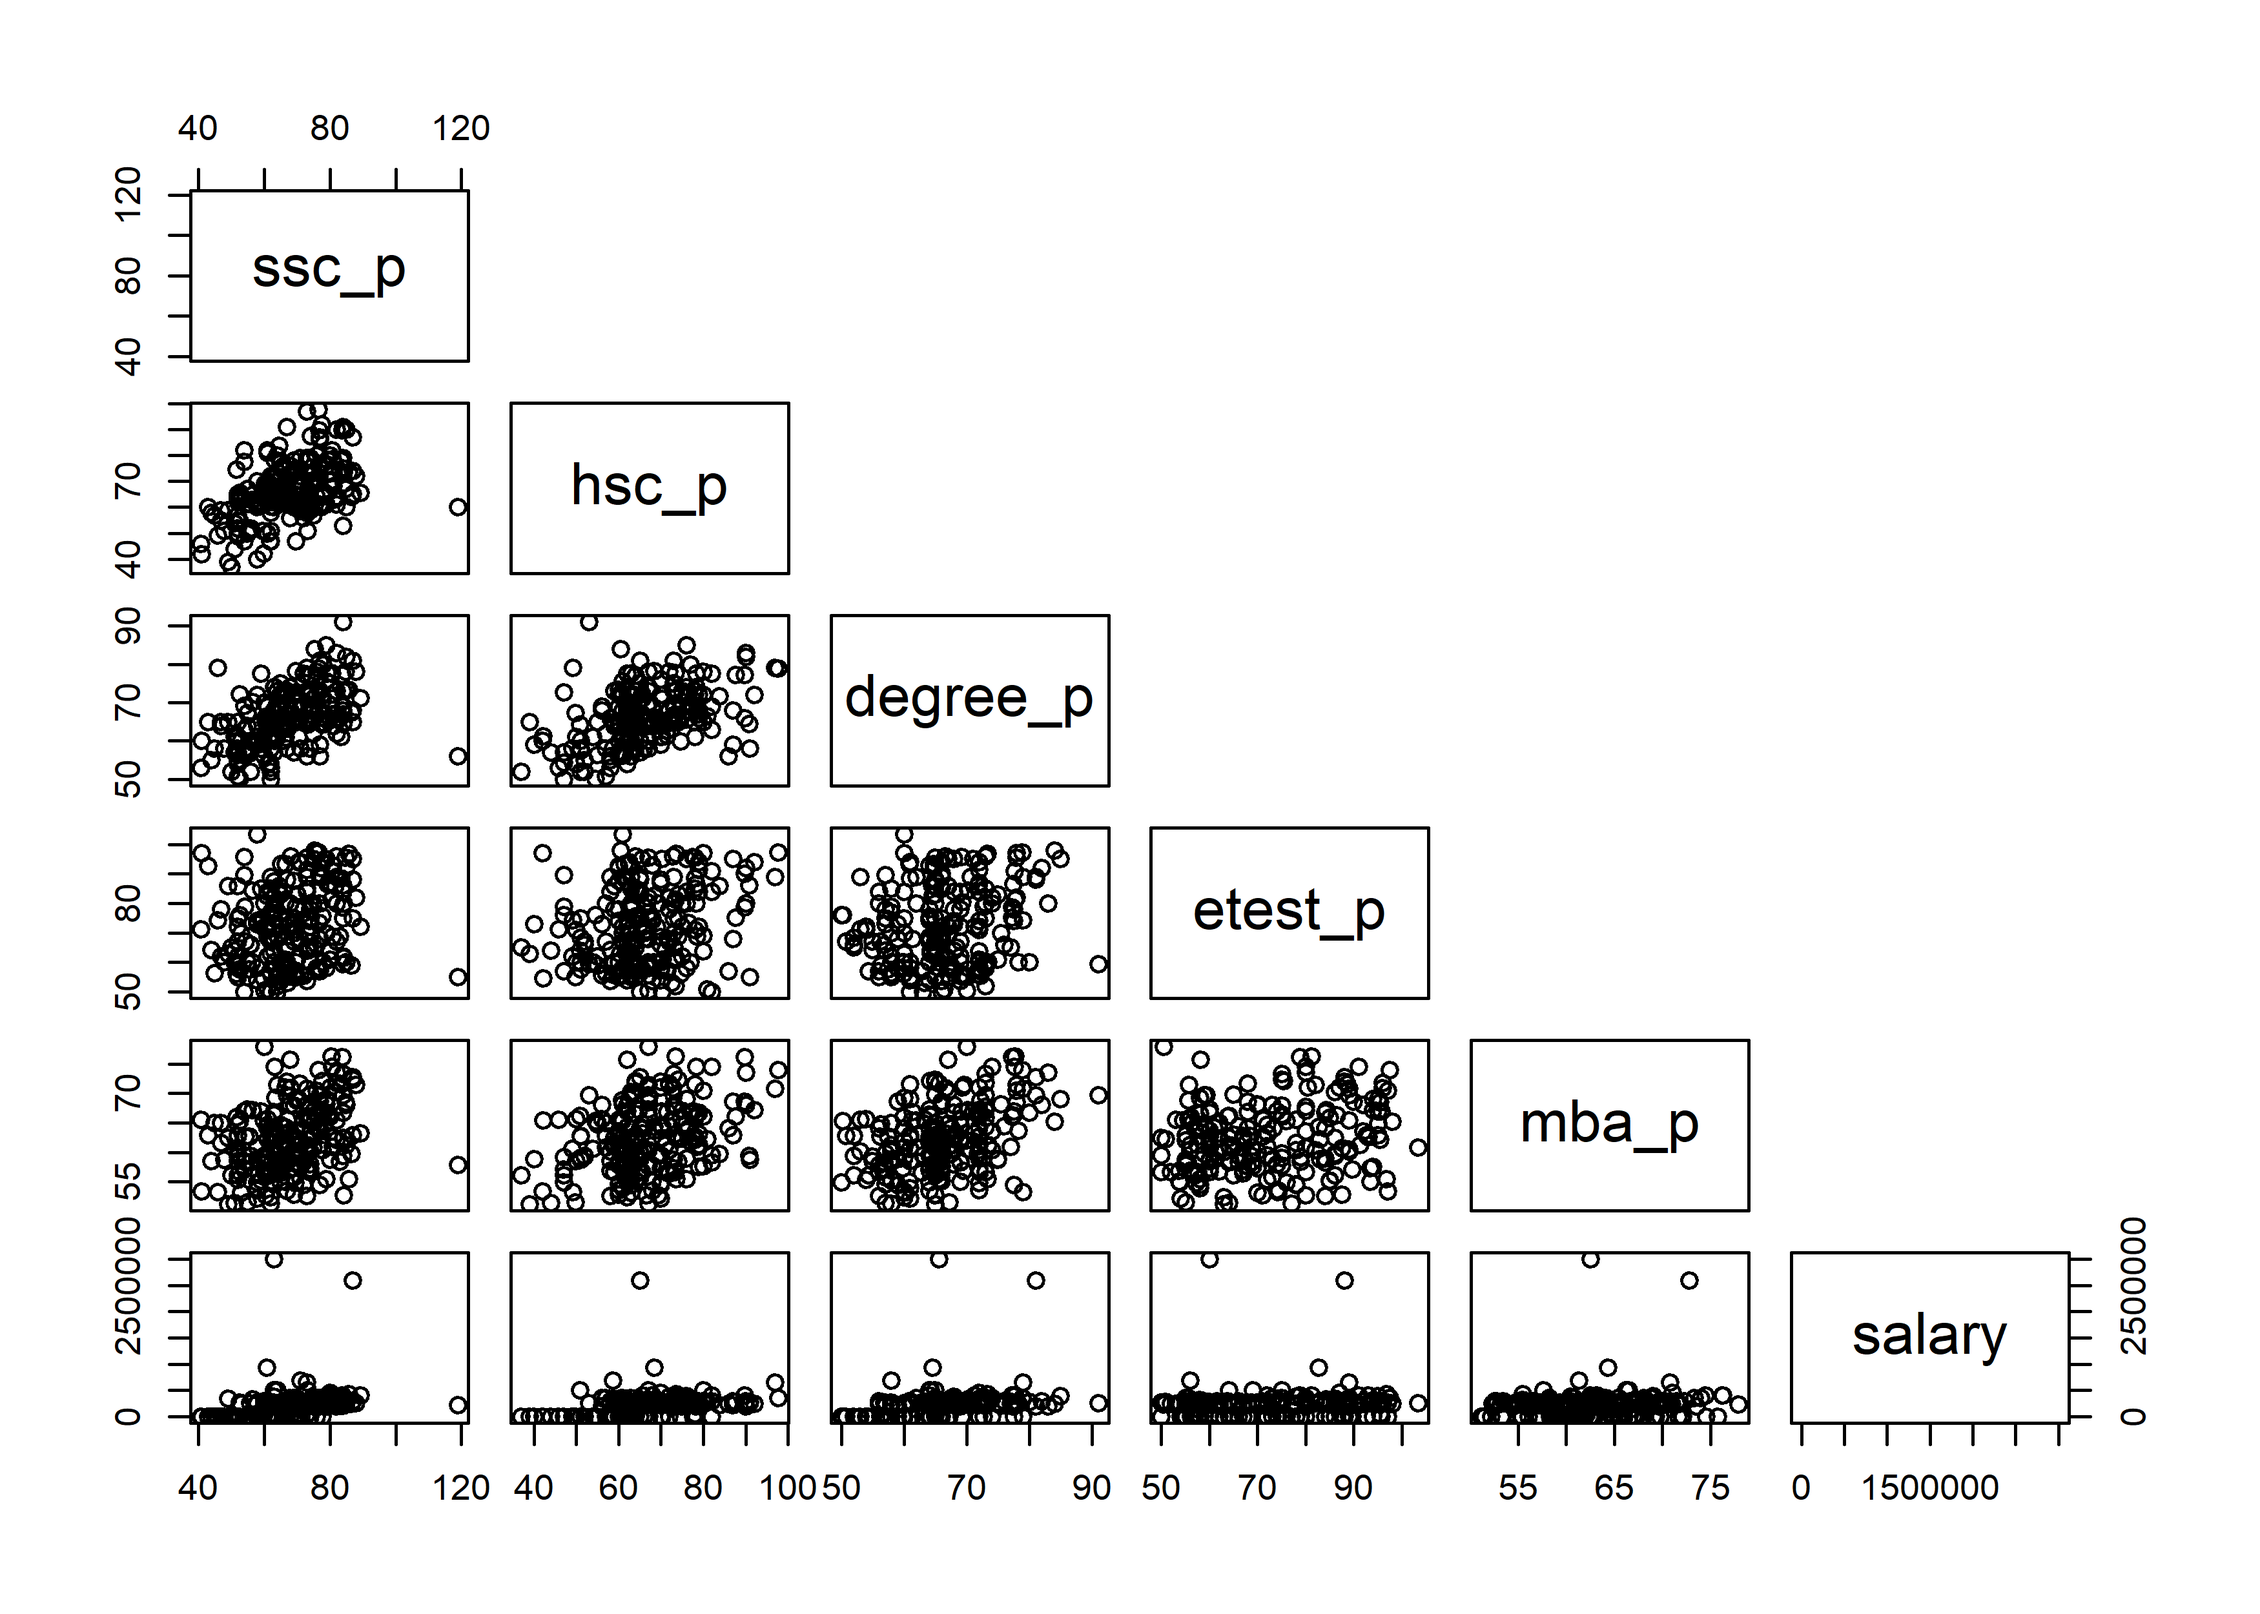
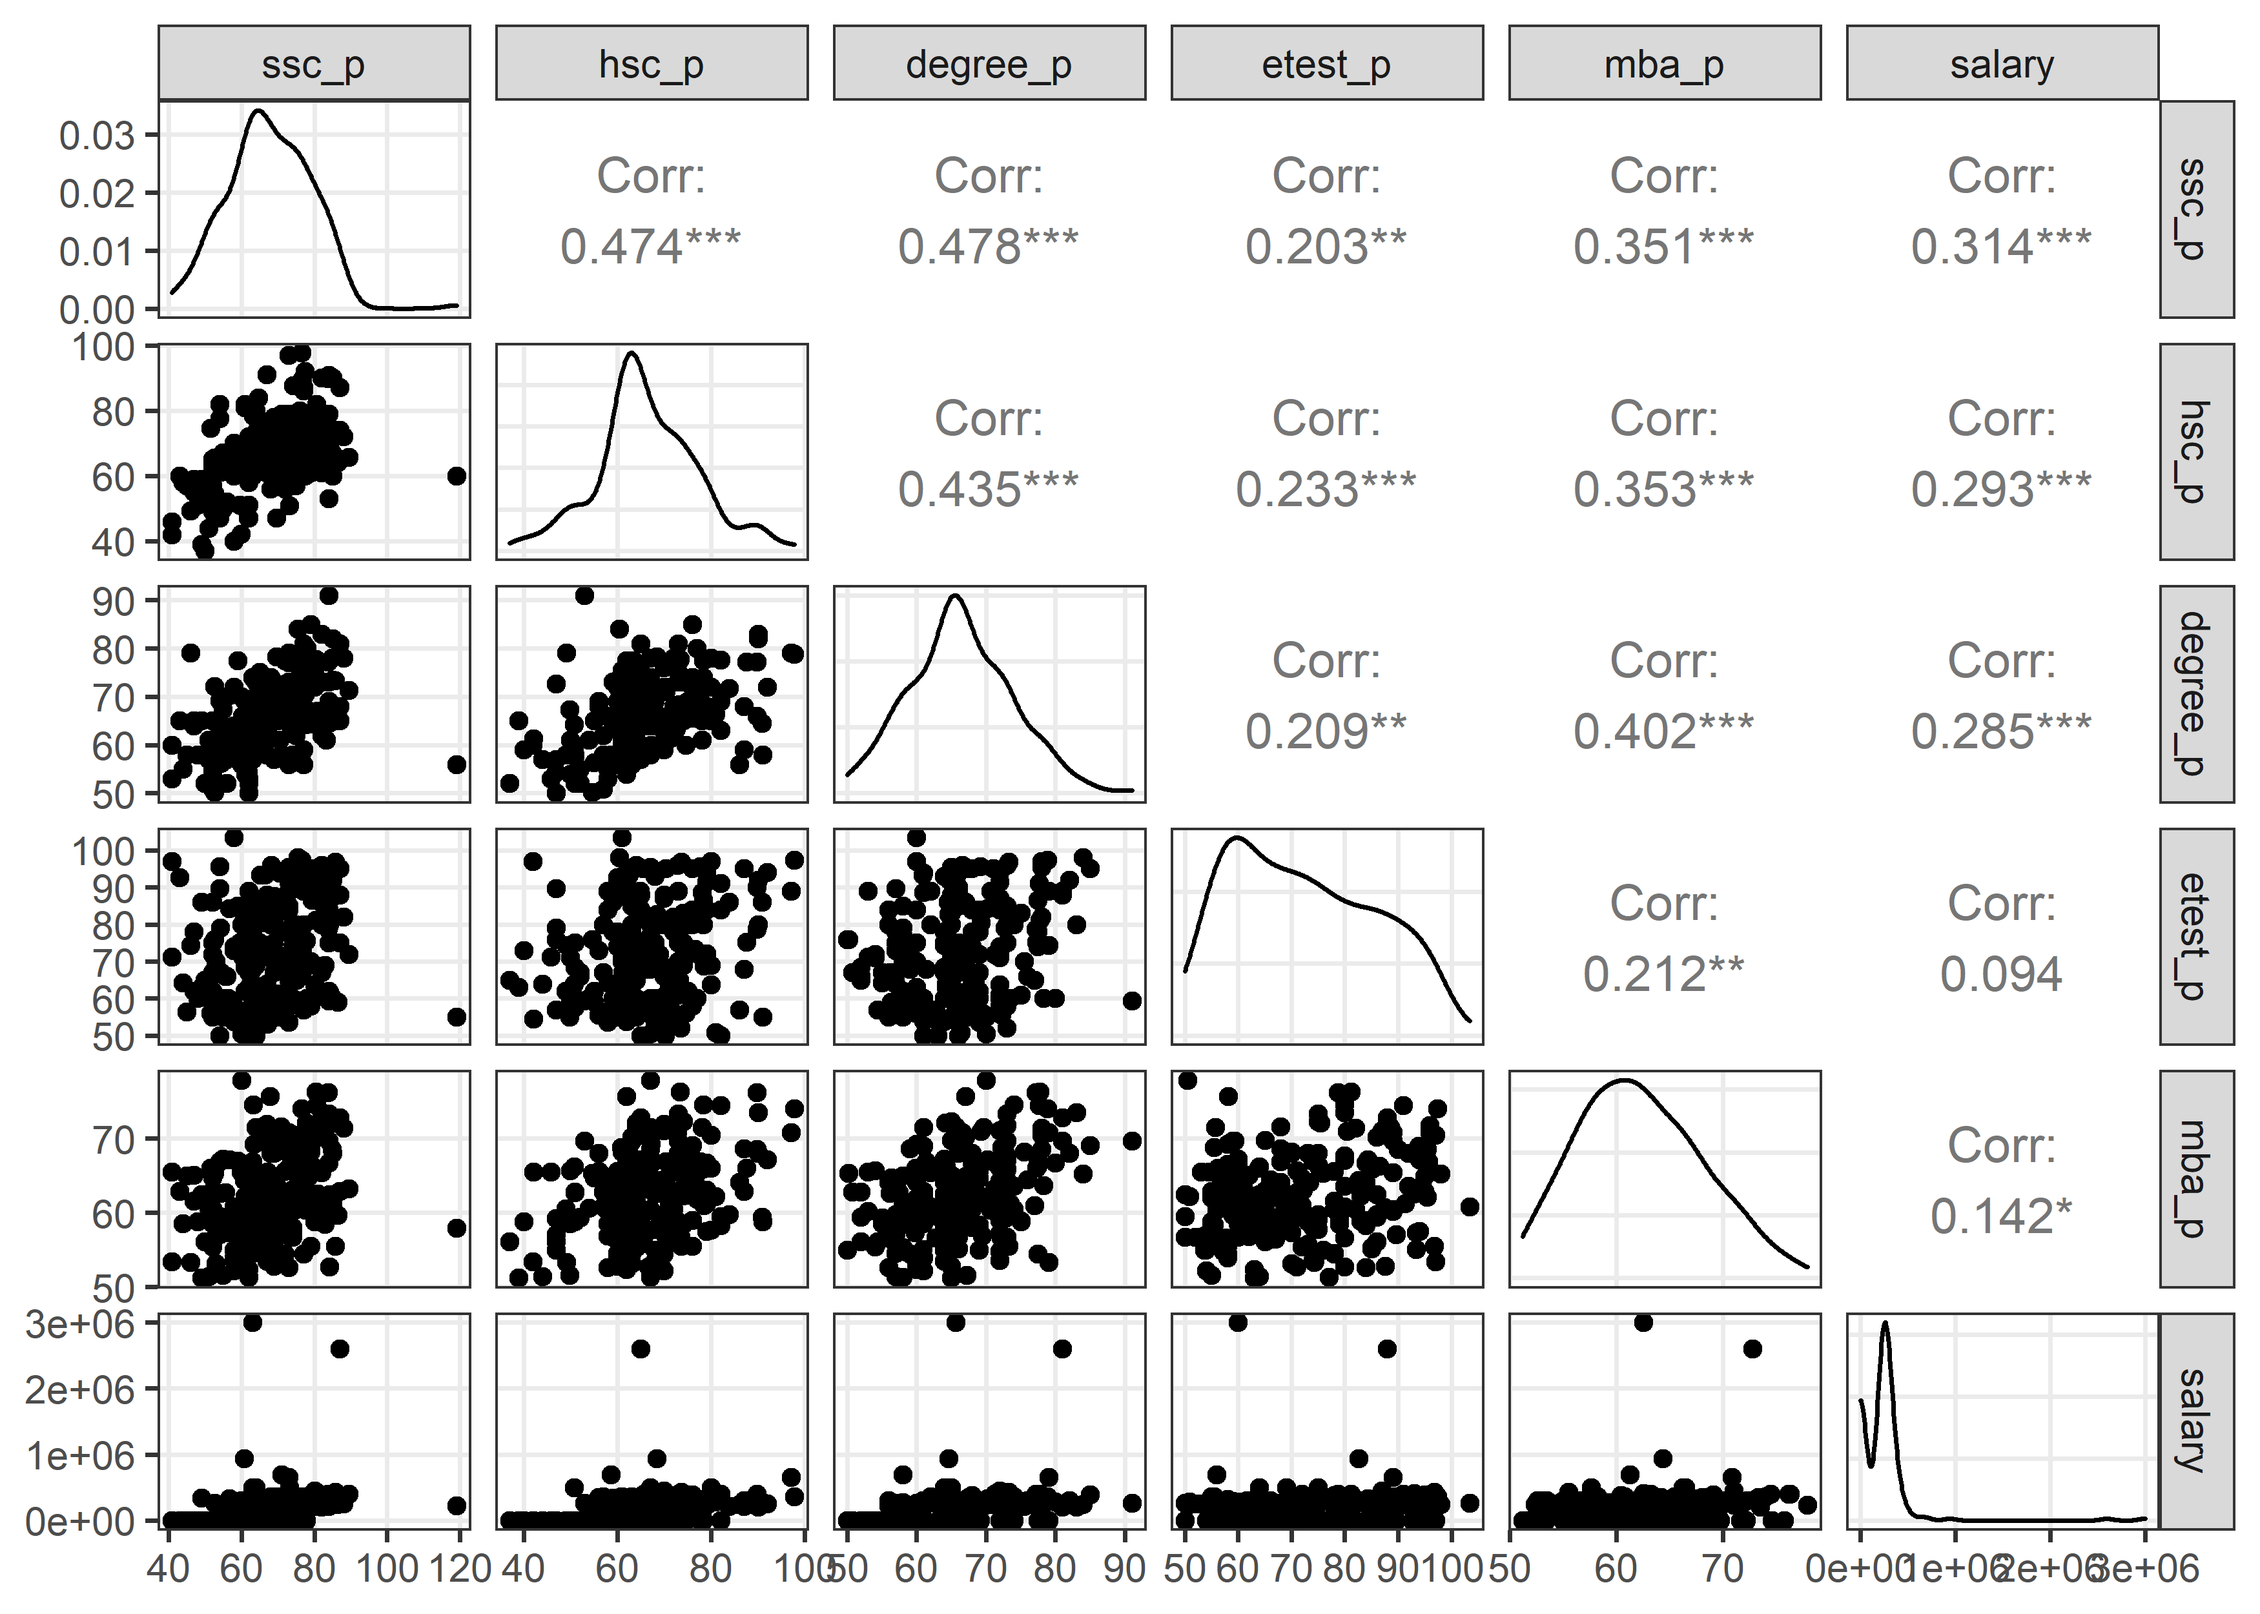
ggpairs

diff --git a/Masters Project Fall Placement/Masters-Project-Fall-Placement.md b/Masters Project Fall Placement/Masters-Project-Fall-Placement.md
@@ -316,8 +316,12 @@ updated_fall <- clean_fall %>%
 clean_fall %>% 
   keep(is.numeric) %>% 
   select(-sl_no) %>% 
-  pairs(upper.panel = NULL)
+  GGally::ggpairs()
 ```
+
+    ## Registered S3 method overwritten by 'GGally':
+    ##   method from   
+    ##   +.gg   ggplot2
 
 ![](Masters-Project-Fall-Placement_files/figure-gfm/unnamed-chunk-6-1.png)<!-- -->
 
